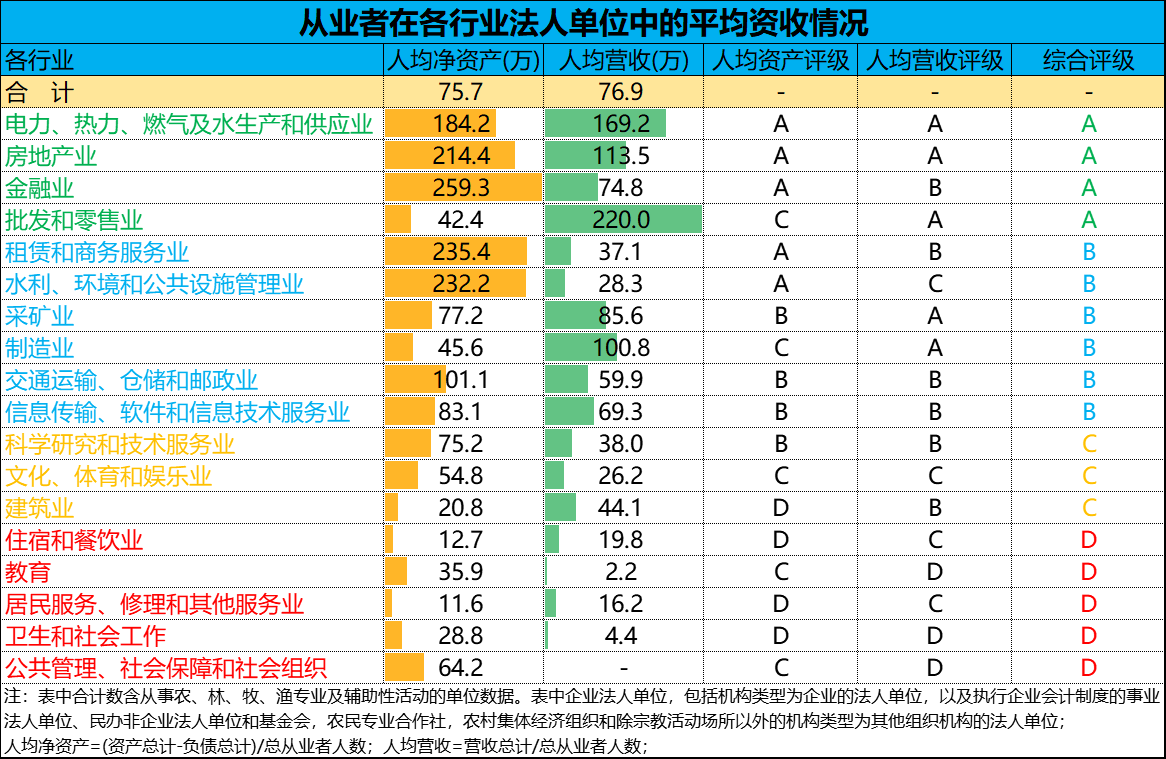
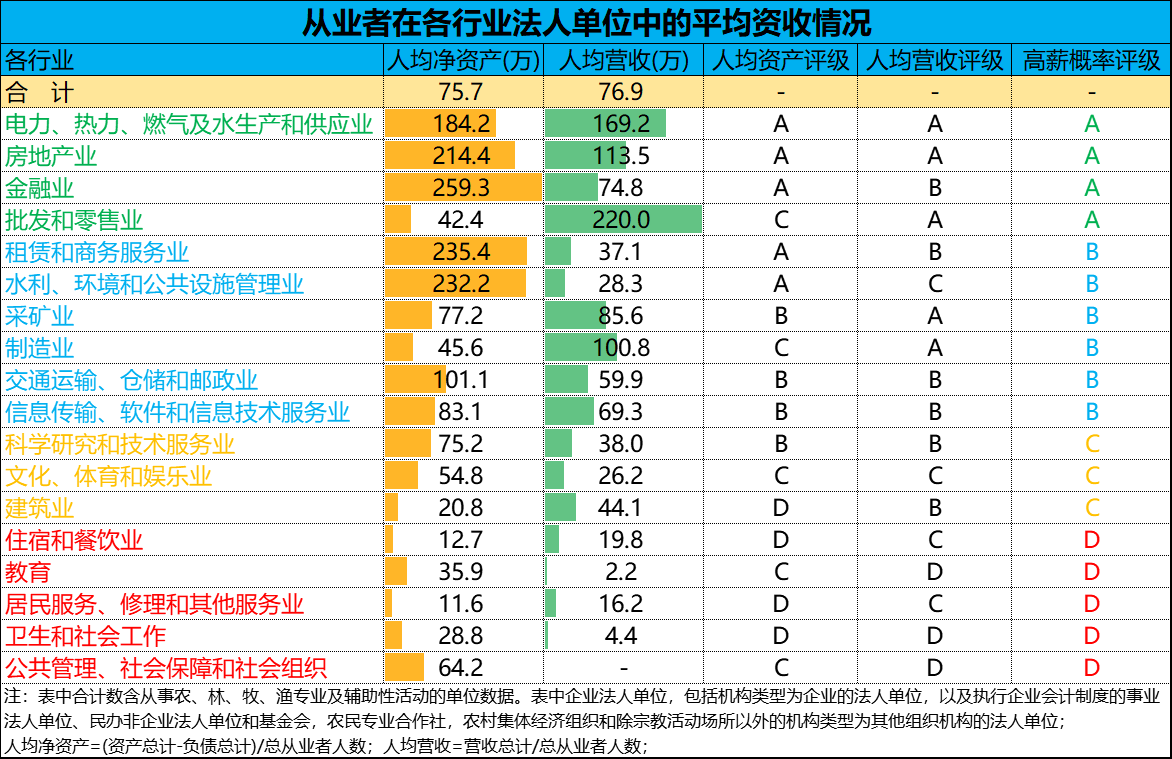
1

diff --git a/Economic_census/README.md b/Economic_census/README.md
@@ -120,7 +120,7 @@
 
 ### 3. 关于从业者
 
-#### 1) 各行从业者薪酬高低可能性对比
+#### 1) 各行从业者高薪概率
 
 ![普通从业者关注的1][138]
 
@@ -128,9 +128,11 @@
 
 ![女性从业者关注的2][136]
 
-(完)
+&emsp;
 
-大企业的寡头化与小企业的平台化始终是经济发展的大势；大企业在寡头搏杀中死一批，小企业在别人平台化后死一批，然后经济红利就彻底消失了；小而美的产品或服务+平台是个体经营者未来的出路。
+**大企业的寡头化与小企业的平台化始终是经济发展的大势；大企业在寡头搏杀中死一批，小企业在别人平台化后死一批，然后经济红利就彻底消失了；小而美的产品或服务+平台是个体经营者未来的出路。**
+
+(完)
 
 后续计划： 1. 各行业上下游产业链，全行业产业网； 2. 梳理更多普查公报，拿前三次普查公告作对比； 3. 国企在不同行业的资产占比，国企在国内经济中作用； 4. 对比其他国家的产业结构，研究中国的经济发展方向； 5. 关注政策波动对行业经济的影响。
 
